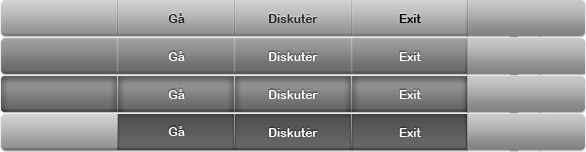
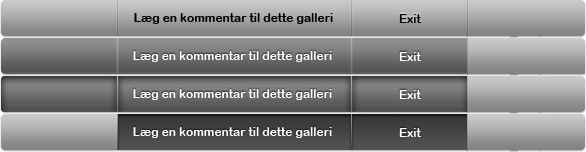
new critic top bar

diff --git a/liboh/plugins/ogre/data/chrome/ui/css/style.css b/liboh/plugins/ogre/data/chrome/ui/css/style.css
@@ -7,7 +7,7 @@ body  {
 	color: #000000;
 	width:1336px;
 	height: 768px;
-	overflow: hidden;
+/*	overflow: hidden;*/
 }
 
 /* Top Bar */
@@ -98,7 +98,7 @@ ul#topbar-critique {
 	height: 568px;
 	width: 1216px;
 	background:url(../images/_0000s_0001_Fullscreen-Modal.png) no-repeat;
-	padding: 200px 200px 200px 210px;
+	padding: 100px 70px 100px 80px;
 	overflow: hidden;
 	z-index: 7001;
 	font-size: 20px;
@@ -122,11 +122,16 @@ ul#topbar-critique {
 	color: #fff;
 	
 }
+#modal-screen p, #help-screen p {
+	margin-top: 150px;
+	padding-left: 50px;
+	padding-right: 50px;
+}
 
 #modal-screen-buttons {
 	position: absolute;
 	list-style: none;
-	left: 670px;
+	left: 540px;
 	top: 400px;
 }
 

diff --git a/liboh/plugins/ogre/data/chrome/ui/screens/topbar_critique.html b/liboh/plugins/ogre/data/chrome/ui/screens/topbar_critique.html
@@ -1,6 +1,6 @@
 <ul id="topbar-critique">
-        <li class="topbarbutton" style="background-position-x: -118px;" onClick="critiqueMode(2);" />&nbsp;</li>
-        <li class="topbarbutton" style="background-position-x: -235px;" onClick="critiqueMode(4);" />&nbsp;</li>
+        <li class="topbarbutton" style="background-position-x: -118px; width:234px;" onClick="critiqueMode(4);" />&nbsp;</li>
+        <!--<li class="topbarbutton" style="background-position-x: -235px;" onClick="critiqueMode(4);" />&nbsp;</li>-->
         <li class="topbarbutton" style="background-position-x: -352px;" onClick="critiqueMode();" />&nbsp;</li>
 </ul>
 

diff --git a/liboh/plugins/ogre/data/chrome/ui/index.html b/liboh/plugins/ogre/data/chrome/ui/index.html
@@ -65,7 +65,7 @@
 			var mode = (mode == null) ? 0 : mode;
 			
 			setup();
-			help = function () { loadScreen("#help-screen", "screens/help_critic.html");  } ;  
+			help = function () {loadScreen("#help-screen", "screens/help_critic.html");  } ;  
 			
 			try {
 				$("body").unbind('sirikata_item_select', pictureSelectedEvent);

diff --git a/liboh/plugins/ogre/data/chrome/ui/screens/critique_load_gallery.html b/liboh/plugins/ogre/data/chrome/ui/screens/critique_load_gallery.html
@@ -1,5 +1,5 @@
 
-<iframe id="myframe"  style="border: none;"  src="http://www.dennisschaaf.com/bornholm/?cat=3&embedded=true" width="100%" height="100%" ></iframe>
+<iframe id="myframe"  style="border: none;  width:1150px; height:550px;"  src="http://www.dennisschaaf.com/bornholm/?cat=3&embedded=true" ></iframe>
 
 
 

diff --git a/liboh/plugins/ogre/data/chrome/ui/screens/fun_welcome.html b/liboh/plugins/ogre/data/chrome/ui/screens/fun_welcome.html
@@ -1,4 +1,6 @@
 <p> Skyd flest mulige billeder ned af v&aelig;ggen p&aring; et minut. Styr med piletasterne og skyd med space baren.   
+
+</p>
 <ul id="modal-screen-buttons">
   <li><a href="javascript:funMode(1);"><img src="images/start.png" /> </a> </li>
 </ul>
